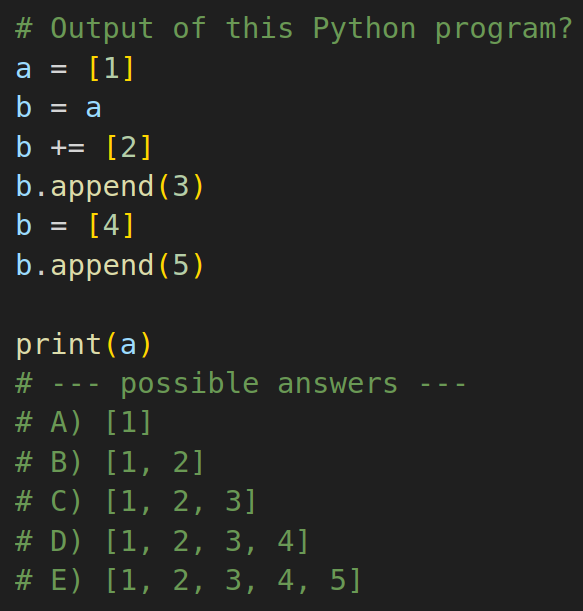
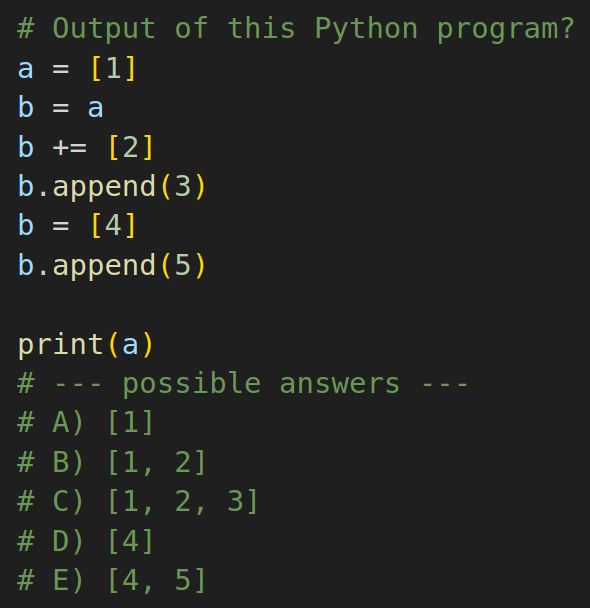
update

diff --git a/exercises/exercise2.py b/exercises/exercise2.py
@@ -12,8 +12,8 @@ print(a)
 # A) [1]
 # B) [1, 2]
 # C) [1, 2, 3]
-# D) [1, 2, 3, 4]
-# E) [1, 2, 3, 4, 5]
+# D) [4]
+# E) [4, 5]
 
 
 
